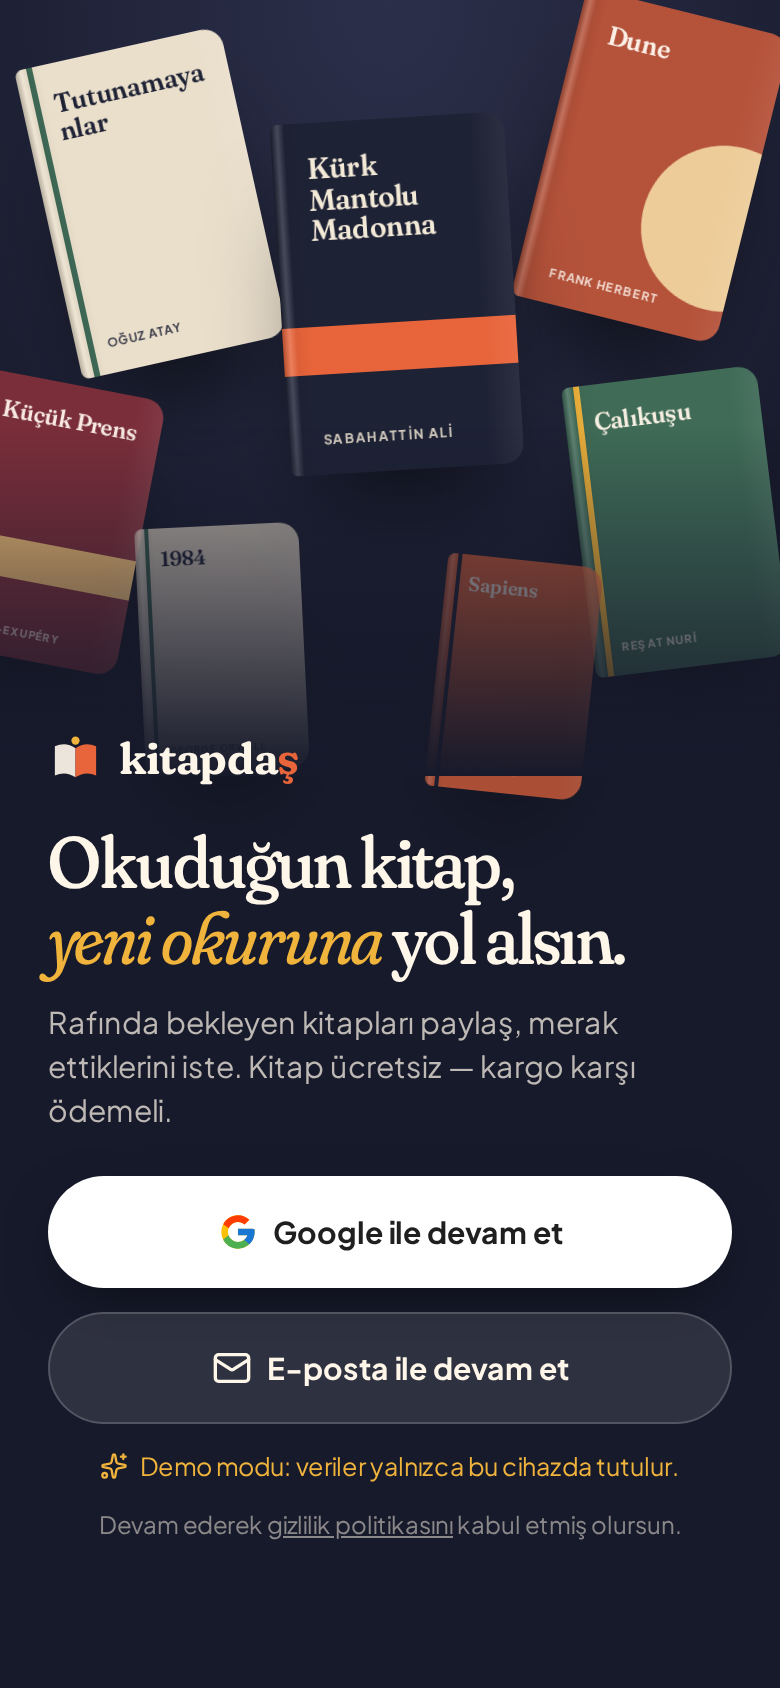
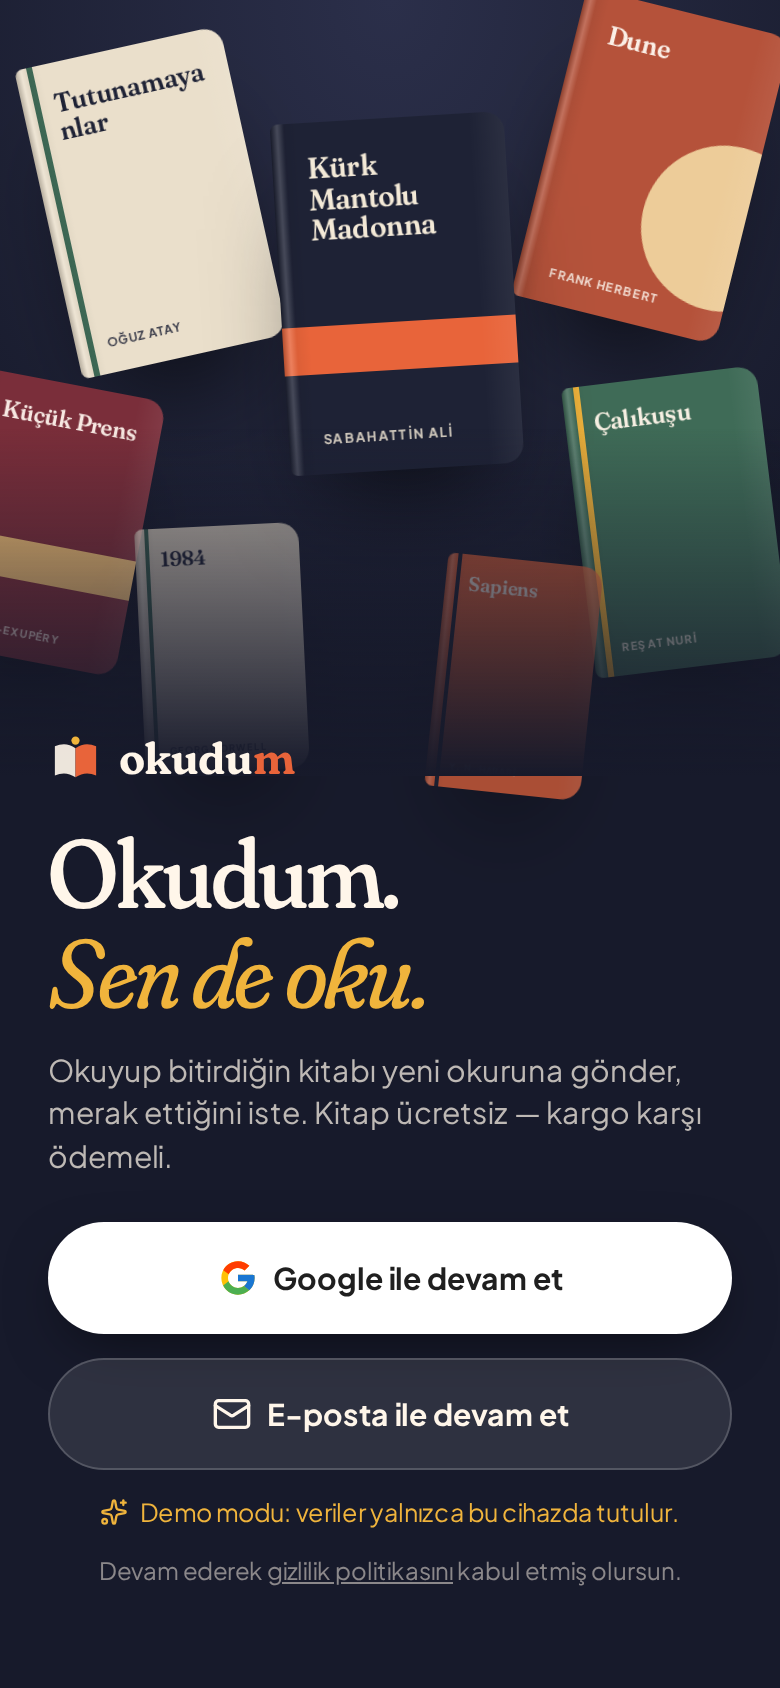
Uygulamanın adı Okudum, sloganı "Sen de oku." oldu
- Uygulama adı ve paket adı: Okudum / com.okudum.app
- Logo yazısı "okudum", karşılama başlığı "Okudum. Sen de oku."
- Unvanlar: Yeni Okur → Okur → Cömert Okur → Kitap Elçisi
- GitHub sırları OKUDUM_* adını aldı, APK çıktısı Okudum-APK
- Gizlilik politikası, README, tanıtım görseli ve ekran görüntüleri güncellendi

Claude-Session: https://claude.ai/code/session_01RqVqgFaTCJnTYFLGzy4bEA

Changed region(s): [[0.0615, 0.4929, 0.9538, 0.955], [0.1538, 0.4313, 0.4, 0.4621], [0.4, 0.0924, 0.4615, 0.1232]]

diff --git a/src/ekranlar/profil.js b/src/ekranlar/profil.js
@@ -15,7 +15,7 @@ export function profilEkrani(kok) {
     const verdim = benim.filter((k) => k.durum === 'verildi');
     const aldim = durum.giden.filter((t) => t.durum === 'teslim').length;
     const liste = filtre === 'rafta' ? rafta : verdim;
-    const unvan = verdim.length >= 10 ? 'Kitap Elçisi' : verdim.length >= 3 ? 'Cömert Okur' : benim.length ? 'Kitapdaş' : 'Yeni Kitapdaş';
+    const unvan = verdim.length >= 10 ? 'Kitap Elçisi' : verdim.length >= 3 ? 'Cömert Okur' : benim.length ? 'Okur' : 'Yeni Okur';
 
     kok.innerHTML = `
     <section class="profil-kahraman">
@@ -47,12 +47,12 @@ export function profilEkrani(kok) {
 
     <section class="ayar-liste">
       <button data-git="profil-duzenle">${ikon('kalem', 20)}<span>Profili düzenle</span>${ikon('sag', 18)}</button>
-      <button id="p-nasil">${ikon('soru', 20)}<span>Kitapdaş nasıl çalışır?</span>${ikon('sag', 18)}</button>
+      <button id="p-nasil">${ikon('soru', 20)}<span>Okudum nasıl çalışır?</span>${ikon('sag', 18)}</button>
       <button id="p-kurallar">${ikon('kalkan', 20)}<span>Topluluk kuralları</span>${ikon('sag', 18)}</button>
-      <a href="https://dronopter-coder.github.io/kitapdas/gizlilik.html" target="_blank" rel="noopener">${ikon('kilit', 20)}<span>Gizlilik politikası</span>${ikon('sag', 18)}</a>
+      <a href="https://dronopter-coder.github.io/okudum/gizlilik.html" target="_blank" rel="noopener">${ikon('kilit', 20)}<span>Gizlilik politikası</span>${ikon('sag', 18)}</a>
       <button id="p-cikis" class="tehlike">${ikon('cikis', 20)}<span>Çıkış yap</span></button>
     </section>
-    <p class="surum">Kitapdaş 1.0${demoMu ? ' · demo modu' : ''}<br/>${h(durum.kullanici.eposta || '')}</p>`;
+    <p class="surum">Okudum 1.0${demoMu ? ' · demo modu' : ''}<br/>${h(durum.kullanici.eposta || '')}</p>`;
 
     kok.querySelectorAll('[data-f]').forEach((b) => b.addEventListener('click', () => { filtre = b.dataset.f; ciz(); }));
     $('#p-nasil', kok).addEventListener('click', nasilCalisir);
@@ -69,7 +69,7 @@ export function profilEkrani(kok) {
 export function nasilCalisir() {
   const adim = (i, ik, b, m) => `<li><i class="nc-ikon">${ikon(ik, 22)}</i><div><b>${i}. ${b}</b><p>${m}</p></div></li>`;
   sayfaAc(`
-    <h3 class="sheet-baslik">Kitapdaş nasıl çalışır?</h3>
+    <h3 class="sheet-baslik">Okudum nasıl çalışır?</h3>
     <ol class="nasil-liste">
       ${adim(1, 'kamera', 'Rafını paylaş', 'Okuyup bitirdiğin kitabın fotoğrafını çek, adını ve yazarını yaz. Kitabın artık herkesin rafında.')}
       ${adim(2, 'kitap', 'İste', 'Okumak istediğin bir kitap gördüğünde teslimat adresinle birlikte talep gönder.')}

diff --git a/docs/gizlilik.html b/docs/gizlilik.html
@@ -3,7 +3,7 @@
 <head>
 <meta charset="utf-8">
 <meta name="viewport" content="width=device-width, initial-scale=1">
-<title>Kitapdaş – Gizlilik Politikası</title>
+<title>Okudum – Gizlilik Politikası</title>
 <style>
 :root{--bg:#F7F1E6;--fg:#1E2235;--muted:#5B5E70;--vurgu:#C94E26;--line:#E7DCC8;--card:#FFFCF6}
 @media (prefers-color-scheme:dark){:root{--bg:#171A2B;--fg:#FFF6EA;--muted:#A9A8B4;--vurgu:#F0B43C;--line:#2E3352;--card:#1E2235}}
@@ -20,10 +20,10 @@ a{color:var(--vurgu)}
 </head>
 <body>
 <main>
-<h1>Kitapdaş – Gizlilik Politikası</h1>
+<h1>Okudum – Gizlilik Politikası</h1>
 <p class="m">Son güncelleme: 1 Ekim 2026</p>
 
-<p>Bu politika, ikinci el kitap paylaşım uygulaması <b>Kitapdaş</b>’ın (“Uygulama”) hangi kişisel verileri hangi amaçla işlediğini açıklar. Uygulamanın geliştiricisi: <b>Rıdvan</b>. İletişim: <a href="mailto:eroglu2141@gmail.com">eroglu2141@gmail.com</a>.</p>
+<p>Bu politika, ikinci el kitap paylaşım uygulaması <b>Okudum</b>’un (“Uygulama”) hangi kişisel verileri hangi amaçla işlediğini açıklar. Uygulamanın geliştiricisi: <b>Rıdvan</b>. İletişim: <a href="mailto:eroglu2141@gmail.com">eroglu2141@gmail.com</a>.</p>
 
 <h2>Topladığımız bilgiler</h2>
 <table>
@@ -49,7 +49,7 @@ a{color:var(--vurgu)}
 <p>Uygulama üzerinden para alınmaz veya ödeme yapılmaz. Kitaplar ücretsiz paylaşılır; kargo ücreti teslimat sırasında doğrudan kargo firmasına ödenir.</p>
 
 <h2>Hesabın ve verilerin silinmesi</h2>
-<p>Kitaplarını uygulama içinden istediğin an raftan kaldırabilirsin. Hesabının ve tüm verilerinin silinmesi için <a href="mailto:eroglu2141@gmail.com?subject=Kitapda%C5%9F%20hesap%20silme">eroglu2141@gmail.com</a> adresine hesabındaki e-posta ile yazman yeterlidir; talebin en geç 30 gün içinde yerine getirilir.</p>
+<p>Kitaplarını uygulama içinden istediğin an raftan kaldırabilirsin. Hesabının ve tüm verilerinin silinmesi için <a href="mailto:eroglu2141@gmail.com?subject=Okudum%20hesap%20silme">eroglu2141@gmail.com</a> adresine hesabındaki e-posta ile yazman yeterlidir; talebin en geç 30 gün içinde yerine getirilir.</p>
 
 <h2>Çocuklar</h2>
 <p>Uygulama, adres paylaşımı içerdiği için 13 yaşından küçüklere yönelik değildir.</p>

diff --git a/src/ekranlar/giris.js b/src/ekranlar/giris.js
@@ -21,12 +21,12 @@ export function girisEkrani(kok) {
     </div>
     <div class="karsilama-alt">
       ${logo('acik')}
-      <h1 class="karsilama-baslik">Okuduğun kitap,<br/><em>yeni okuruna</em> yol alsın.</h1>
-      <p class="karsilama-metin">Rafında bekleyen kitapları paylaş, merak ettiklerini iste. Kitap ücretsiz — kargo karşı ödemeli.</p>
+      <h1 class="karsilama-baslik">Okudum.<br/><em>Sen de oku.</em></h1>
+      <p class="karsilama-metin">Okuyup bitirdiğin kitabı yeni okuruna gönder, merak ettiğini iste. Kitap ücretsiz — kargo karşı ödemeli.</p>
       <button class="dugme google" id="g-google">${GOOGLE_LOGO}<span>Google ile devam et</span></button>
       <button class="dugme cam" id="g-eposta">${ikon('posta', 20)}<span>E-posta ile devam et</span></button>
       ${demoMu ? `<p class="demo-not">${ikon('parilti', 14)} Demo modu: veriler yalnızca bu cihazda tutulur.</p>` : ''}
-      <p class="yasal">Devam ederek <a href="https://dronopter-coder.github.io/kitapdas/gizlilik.html" target="_blank" rel="noopener">gizlilik politikasını</a> kabul etmiş olursun.</p>
+      <p class="yasal">Devam ederek <a href="https://dronopter-coder.github.io/okudum/gizlilik.html" target="_blank" rel="noopener">gizlilik politikasını</a> kabul etmiş olursun.</p>
     </div>
   </section>`;
 

diff --git a/www/index.html b/www/index.html
@@ -5,7 +5,7 @@
   <meta name="viewport" content="width=device-width, initial-scale=1, viewport-fit=cover, maximum-scale=1, user-scalable=no" />
   <meta name="theme-color" content="#F7F1E6" />
   <meta name="color-scheme" content="light" />
-  <title>Kitapdaş</title>
+  <title>Okudum</title>
   <link rel="stylesheet" href="app.css" />
 </head>
 <body>
@@ -13,7 +13,7 @@
     <main id="sahne" class="sahne"></main>
     <nav id="sekme" hidden></nav>
   </div>
-  <div id="acilis"><div class="logo acik"><svg class="logo-isaret" viewBox="0 0 48 48" aria-hidden="true"><path d="M6 12.5c6-2.6 12-2.6 18 1.6v25.4c-6-4.2-12-4.2-18-1.6z" fill="currentColor" opacity=".92"/><path d="M42 12.5c-6-2.6-12-2.6-18 1.6v25.4c6-4.2 12-4.2 18-1.6z" fill="#E8643A"/><circle cx="24" cy="7.5" r="3.6" fill="#F0B43C"/></svg><span>kitapda<b>ş</b></span></div></div>
+  <div id="acilis"><div class="logo acik"><svg class="logo-isaret" viewBox="0 0 48 48" aria-hidden="true"><path d="M6 12.5c6-2.6 12-2.6 18 1.6v25.4c-6-4.2-12-4.2-18-1.6z" fill="currentColor" opacity=".92"/><path d="M42 12.5c-6-2.6-12-2.6-18 1.6v25.4c6-4.2 12-4.2 18-1.6z" fill="#E8643A"/><circle cx="24" cy="7.5" r="3.6" fill="#F0B43C"/></svg><span>okudu<b>m</b></span></div></div>
   <script type="module" src="app.js"></script>
 </body>
 </html>

diff --git a/src/stil.css b/src/stil.css
@@ -172,7 +172,7 @@ em { font-style: italic; }
 .karsilama-raf::after { content: ''; position: absolute; inset: auto 0 0; height: 45%; background: linear-gradient(transparent, var(--gece)); z-index: 4; }
 .karsilama-alt { padding: 0 24px calc(var(--alt) + 24px); display: flex; flex-direction: column; gap: 12px; position: relative; z-index: 5; margin-top: -24px; }
 .karsilama-alt .logo { font-size: 22px; margin-bottom: 4px; }
-.karsilama-baslik { font-family: var(--serif); font-weight: 500; font-size: clamp(32px, 9.4vw, 44px); line-height: 1.04; letter-spacing: -.025em; font-variation-settings: 'SOFT' 100, 'opsz' 144; }
+.karsilama-baslik { font-family: var(--serif); font-weight: 500; font-size: clamp(42px, 12.5vw, 56px); line-height: 1.02; letter-spacing: -.025em; font-variation-settings: 'SOFT' 100, 'opsz' 144; }
 .karsilama-baslik em { color: var(--hardal); font-weight: 400; }
 .karsilama-metin { color: rgba(255, 246, 234, .72); font-size: 15px; margin-bottom: 10px; max-width: 34ch; }
 .dugme.google { background: #fff; color: #1F1F1F; min-height: 56px; box-shadow: 0 10px 30px -10px rgba(0, 0, 0, .6); }

diff --git a/src/ekranlar/kisi.js b/src/ekranlar/kisi.js
@@ -1,4 +1,4 @@
-// Bir kitapdaşın rafı
+// Bir okurun rafı
 import { durum } from '../durum.js';
 import { h, ikon, avatar } from '../ui.js';
 import { kitapKarti, bosDurum, ustBar } from './ortak.js';
@@ -19,8 +19,8 @@ export function kisiEkrani(kok, { parca }) {
         <div class="istatistik kucuk"><div><b>${rafta.length}</b><span>Rafında</span></div><div><b>${paylasti}</b><span>Paylaştı</span></div></div>
       </section>
       <section class="bolum"><div class="bolum-bas"><h2>Rafındaki kitaplar</h2></div>
-        ${rafta.length ? `<div class="izgara">${rafta.map((k) => kitapKarti(k)).join('')}</div>` : bosDurum('raf', 'Rafı şu an boş', 'Bu kitapdaşın paylaşacak kitabı kalmamış.')}
-      </section>` : bosDurum('kisi', 'Kitapdaş bulunamadı', '')}`;
+        ${rafta.length ? `<div class="izgara">${rafta.map((k) => kitapKarti(k)).join('')}</div>` : bosDurum('raf', 'Rafı şu an boş', 'Bu okurun paylaşacak kitabı kalmamış.')}
+      </section>` : bosDurum('kisi', 'Okur bulunamadı', '')}`;
   };
   ciz();
   return { guncelle: (n) => n === 'kitaplar' && ciz() };

diff --git a/src/ekranlar/takas.js b/src/ekranlar/takas.js
@@ -95,7 +95,7 @@ export function takasEkrani(kok, { sorgu }) {
       </div>
       <div class="talep-liste">
         ${aktif.length ? aktif.map((t) => kart(t, sekme)).join('') : sekme === 'gelen'
-    ? bosDurum('gelen', 'Henüz talep yok', 'Rafına kitap ekledikçe okurlar seni bulacak. Ne kadar çok kitap, o kadar çok kitapdaş!', '<button class="dugme ana" data-git="ekle">Kitap ekle</button>')
+    ? bosDurum('gelen', 'Henüz talep yok', 'Rafına kitap ekledikçe okurlar seni bulacak. Ne kadar çok kitap, o kadar çok okur!', '<button class="dugme ana" data-git="ekle">Kitap ekle</button>')
     : bosDurum('kitap', 'Henüz bir kitap istemedin', 'Rafları gez, gözüne kestirdiğin kitabı iste. Kitap ücretsiz, kargo karşı ödemeli.', '<button class="dugme ana" data-git="kesfet">Keşfet</button>')}
       </div>
       ${biten.length ? `<button class="arsiv-dugme" id="t-arsiv">${arsiv ? 'Geçmişi gizle' : `Geçmiş takaslar (${biten.length})`} ${ikon('sag', 16)}</button>

diff --git a/src/veri/demo.js b/src/veri/demo.js
@@ -1,7 +1,7 @@
 // Demo arka ucu: Firebase ayarı yokken uygulamanın tamamı bu cihazda (localStorage) çalışır.
 // Firebase arka ucuyla aynı işlevleri sunar. Gerçekçi olsun diye talepler bir süre sonra
 // "karşı taraf" tarafından otomatik onaylanıp kargolanır.
-const ANAHTAR = 'kitapdas_demo_v1';
+const ANAHTAR = 'okudum_demo_v1';
 const BEN = 'demo-ben';
 
 const gun = 86400000;
@@ -95,7 +95,7 @@ function oturumAc(k) {
 
 export async function googleIleGiris() {
   await bekle(600);
-  oturumAc({ uid: BEN, ad: 'Kitapsever', eposta: 'demo@kitapdas.app', foto: '' });
+  oturumAc({ uid: BEN, ad: 'Kitapsever', eposta: 'demo@okudum.app', foto: '' });
 }
 export async function epostaKayit(ad, eposta, sifre) {
   if (sifre.length < 6) throw { code: 'auth/weak-password' };

diff --git a/src/ekranlar/kitap.js b/src/ekranlar/kitap.js
@@ -86,9 +86,9 @@ export function kitapEkrani(kok, { parca }) {
       } catch (e) { toast(hataMetni(e), 'hata'); }
     });
     $('#k-paylas', kok).addEventListener('click', async () => {
-      const metin = `"${k.ad}" (${k.yazar}) Kitapdaş'ta yeni okurunu bekliyor 📚`;
+      const metin = `"${k.ad}" (${k.yazar}) Okudum'da yeni okurunu bekliyor. Sen de oku! 📚`;
       try {
-        if (navigator.share) await navigator.share({ title: 'Kitapdaş', text: metin });
+        if (navigator.share) await navigator.share({ title: 'Okudum', text: metin });
         else { await navigator.clipboard.writeText(metin); toast('Panoya kopyalandı.', 'basari'); }
       } catch {}
     });

diff --git a/src/ekranlar/kesfet.js b/src/ekranlar/kesfet.js
@@ -39,7 +39,7 @@ export function kesfetEkrani(kok) {
     </div>
 
     ${!durum.kitaplarHazir ? `<div class="izgara">${iskelet(4)}</div>` : musait.length === 0
-    ? bosDurum('kitap', 'Raflar şimdilik boş', 'İlk kitabı sen paylaş, kitapdaşlık zinciri senden başlasın!', '<button class="dugme ana" data-git="ekle">Kitap ekle</button>')
+    ? bosDurum('kitap', 'Raflar şimdilik boş', 'İlk kitabı sen paylaş, okuma zinciri senden başlasın!', '<button class="dugme ana" data-git="ekle">Kitap ekle</button>')
     : `
     <section class="bolum">
       <div class="bolum-bas"><h2>Rafa yeni gelenler</h2><button class="baglanti" data-git="ara">Tümü</button></div>

diff --git a/docs/index.html b/docs/index.html
@@ -1,1 +1,1 @@
-<!doctype html><html lang="tr"><head><meta charset="utf-8"><meta name="viewport" content="width=device-width, initial-scale=1"><meta http-equiv="refresh" content="0; url=gizlilik.html"><title>Kitapdaş</title></head><body><p><b>Kitapdaş</b> – <a href="gizlilik.html">Gizlilik Politikası</a></p></body></html>
+<!doctype html><html lang="tr"><head><meta charset="utf-8"><meta name="viewport" content="width=device-width, initial-scale=1"><meta http-equiv="refresh" content="0; url=gizlilik.html"><title>Okudum</title></head><body><p><b>Okudum</b> – <a href="gizlilik.html">Gizlilik Politikası</a></p></body></html>

diff --git a/src/ekranlar/ortak.js b/src/ekranlar/ortak.js
@@ -9,7 +9,7 @@ export const LOGO_ISARET = `<svg class="logo-isaret" viewBox="0 0 48 48" aria-hi
 </svg>`;
 
 export function logo(ton = '') {
-  return `<div class="logo ${ton}">${LOGO_ISARET}<span>kitapda<b>ş</b></span></div>`;
+  return `<div class="logo ${ton}">${LOGO_ISARET}<span>okudu<b>m</b></span></div>`;
 }
 
 export function kitapKarti(k, { genis = false } = {}) {
